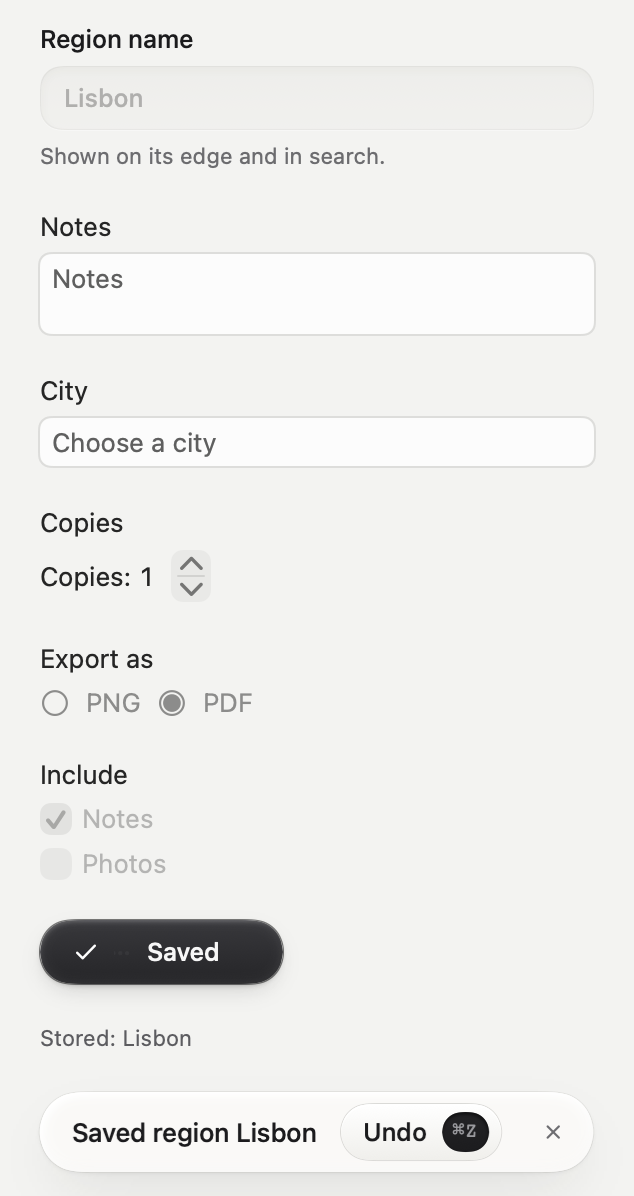
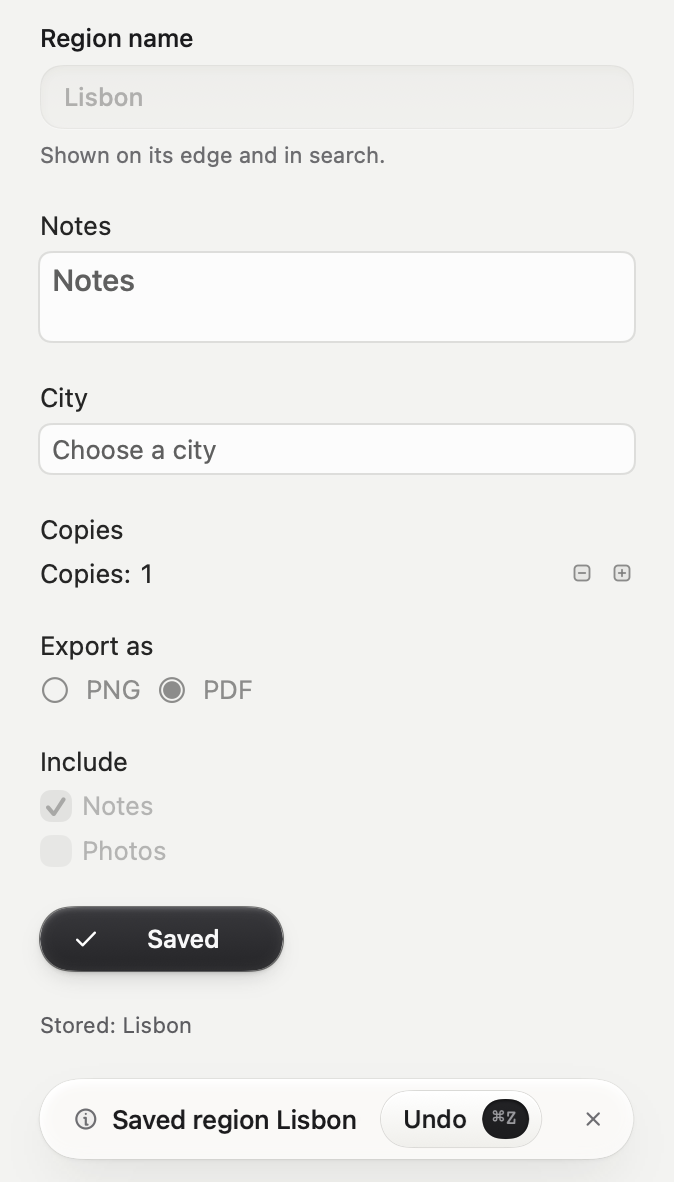
fix(form-field): keep the authored save glyph through region results

diff --git a/apps/docs/src/pages/components/FormField.tsx b/apps/docs/src/pages/components/FormField.tsx
@@ -1,7 +1,7 @@
 import * as React from 'react';
 import { useDialKit } from 'dialkit';
 import { Button, CheckboxGroup, Combobox, Field, Fieldset, Form, FormField, NumberField, Radio, RadioGroup, Textarea, ToastProvider, useToast, useWaiting } from '@unlocalhosted/metalui';
-import { Icon, MorphIcon } from '@unlocalhosted/metalui/icons';
+import { SaveGlyph } from '../../ui/async/SaveGlyph';
 import { useEditRequest } from '../../../../../packages/metalui/src/components/rename-editor/edit-request';
 import { SPRINGS } from '../../../../../packages/metalui/src/motion/springs.generated';
 import { WAITING_TIMING } from '../../../../../packages/metalui/src/motion/waiting.generated';
@@ -107,7 +107,7 @@ function RegionFormBody() {
       </Fieldset>
       <div className="flex items-center gap-12">
         <Button cap="primary" type="submit" state={request.state} waitingLabel="Saving…" doneLabel="Saved" errorLabel="Try again"
-          icon={<span className="relative inline-flex"><MorphIcon name={phase === 'done' ? 'check' : phase === 'error' ? 'sync-error' : 'region'} className={phase === 'idle' ? 'invisible' : undefined} /><Icon name="region" className={phase === 'idle' ? 'absolute inset-0' : 'hidden'} /></span>}>Save region</Button>
+          icon={<SaveGlyph state={phase} />}>Save region</Button>
         {sent && <span className="type-meta text-ink2">Saved.</span>}
       </div>
       {request.failure && <p className="m-0 type-meta text-form-field-error-ink" role="alert">{request.failure}</p>}
@@ -125,14 +125,16 @@ export default function FormFieldPage() {
       lede="A control with its words: a label, a hint, and an error that says why a value is not accepted. The error comes out from under the control, so the form moves instead of jumping. Fieldsets group fields under a legend."
       play={{ lede: 'Type two letters in the name and move on, or save with the name empty. Saving validates the whole form, locks only that request, then offers Undo.', caption: 'label · description · error · fieldset', node: <RegionForm /> }}
       more={[{ id: 'save', title: 'Commit a small edit', lede: 'Save region captures all validated fields for one storage request. A failure keeps the draft for retry; a success settles region into check and Save region into Saved, then unlocks the form. Undo restores the snapshot captured before that request. The Save region request panel controls latency and first-request failure.', node: <p className="m-0 type-content text-ink2">The native example below composes the same existing controls. Native Combobox, NumberField and CheckboxGroup remain at their documented alpha fidelity; request lock, validation, result and Undo are executable.</p> }, { id: 'error', title: 'Tune the error', lede: 'The Form error panel swaps the springs the error opens and closes on, and stretches time. Flip it invalid and valid.', node: <ErrorTuner /> }]}
-      usage={`<Form onFormSubmit={save}>
+      usage={`import { Icon } from '@unlocalhosted/metalui/icons';
+
+<Form onFormSubmit={save}>
   <FormField name="name">
     <FormField.Label>Region name</FormField.Label>
     <Field size="regular"><Field.Input required /></Field>
     <FormField.Description>Shown on its edge and in search.</FormField.Description>
     <FormField.Error match="valueMissing">Give the region a name.</FormField.Error>
   </FormField>
-  <Button cap="primary" type="submit">Save</Button>
+  <Button cap="primary" type="submit" icon={<Icon name="save" />}>Save</Button>
 </Form>`}
       sources={[
         { id: 'react', label: 'React', code: reactSource },

diff --git a/swift/Examples/MetalSaveRegionExample.swift b/swift/Examples/MetalSaveRegionExample.swift
@@ -54,7 +54,7 @@ public struct MetalSaveRegionExample: View {
                     MetalCheckboxGroup(options: [("notes", "Notes"), ("photos", "Photos")], selection: $draft.include)
                 }.disabled(pending)
                 MetalButton("Save region", cap: .primary, state: state, waitingLabel: "Saving…", doneLabel: "Saved", errorLabel: "Try again", action: submit) {
-                    MetalMorphIcon(phase == .done ? .check : phase == .error ? .syncError : .region)
+                    MetalMorphIcon(phase == .done ? .check : phase == .error ? .syncError : .save)
                 }.keyboardShortcut(.defaultAction)
                 if let failure { Text(failure).metalType(MetalType.meta).foregroundStyle(colorway.tokens.invalid.color) }
                 Text(saved.map { "Stored: \($0.name)" } ?? "No saved region.").metalType(MetalType.meta).foregroundStyle(colorway.tokens.ink2.color)

diff --git a/e2e/save-region.spec.ts b/e2e/save-region.spec.ts
@@ -5,6 +5,7 @@ for (const colorway of COLORWAYS) {
   test(`Save region commits validated fields once, locks only the form, settles a result and captures Undo in ${colorway}`, async ({ page }) => {
     await open(page, '/components/form-field', colorway);
     const form = page.getByTestId('save-region');
+    await expect(form.getByRole('button', { name: 'Save region', exact: true }).locator('svg.mu-ic-save').filter({ visible: true })).toHaveCount(1);
     const name = form.getByRole('textbox', { name: 'Region name' });
     await name.fill('Lisbon'); await form.getByRole('textbox', { name: 'Notes' }).fill('Bring the tram map.');
     await form.getByRole('button', { name: 'Save region', exact: true }).click();

diff --git a/packages/metalui/public/AI.md b/packages/metalui/public/AI.md
@@ -1741,7 +1741,7 @@ Reduce Motion: the error's row snaps; the fade stays.
 
 ## Save region host
 
-The docs form saves the validated values from Base UI Form as one request. The host captures its previous document, locks its controls while pending, drives Button state waiting/done/error, and reserves the result beat before unlocking. Its region glyph becomes check on success or sync-error on failure; the drum says Saved / Try again. Failed storage retains the draft and remains retryable; it does not mark otherwise-valid field values invalid. Undo restores the captured document snapshot, never a later read of current storage. Existing form validation still owns focus placement.
+The docs form saves the validated values from Base UI Form as one request. The host captures its previous document, locks its controls while pending, drives Button state waiting/done/error, and reserves the result beat before unlocking. Its authored save glyph becomes check on success or sync-error on failure; the drum says Saved / Try again. Failed storage retains the draft and remains retryable; it does not mark otherwise-valid field values invalid. Undo restores the captured document snapshot, never a later read of current storage. Existing form validation still owns focus placement.
 
 The executable native composition is swift/Examples/MetalSaveRegionExample.swift in the non-product MetalUIExamples target; it uses the same storage callback, request lock, presentation timing and captured-original Undo. Component fidelity limits remain those of the individual alpha controls.
 

diff --git a/packages/metalui/public/r/form-field.md b/packages/metalui/public/r/form-field.md
@@ -49,6 +49,6 @@ Reduce Motion: the error's row snaps; the fade stays.
 
 ## Save region host
 
-The docs form saves the validated values from Base UI Form as one request. The host captures its previous document, locks its controls while pending, drives Button state waiting/done/error, and reserves the result beat before unlocking. Its region glyph becomes check on success or sync-error on failure; the drum says Saved / Try again. Failed storage retains the draft and remains retryable; it does not mark otherwise-valid field values invalid. Undo restores the captured document snapshot, never a later read of current storage. Existing form validation still owns focus placement.
+The docs form saves the validated values from Base UI Form as one request. The host captures its previous document, locks its controls while pending, drives Button state waiting/done/error, and reserves the result beat before unlocking. Its authored save glyph becomes check on success or sync-error on failure; the drum says Saved / Try again. Failed storage retains the draft and remains retryable; it does not mark otherwise-valid field values invalid. Undo restores the captured document snapshot, never a later read of current storage. Existing form validation still owns focus placement.
 
 The executable native composition is swift/Examples/MetalSaveRegionExample.swift in the non-product MetalUIExamples target; it uses the same storage callback, request lock, presentation timing and captured-original Undo. Component fidelity limits remain those of the individual alpha controls.

diff --git a/packages/metalui/src/components/form-field/form-field.agent.md b/packages/metalui/src/components/form-field/form-field.agent.md
@@ -49,6 +49,6 @@ Reduce Motion: the error's row snaps; the fade stays.
 
 ## Save region host
 
-The docs form saves the validated values from Base UI Form as one request. The host captures its previous document, locks its controls while pending, drives Button state waiting/done/error, and reserves the result beat before unlocking. Its region glyph becomes check on success or sync-error on failure; the drum says Saved / Try again. Failed storage retains the draft and remains retryable; it does not mark otherwise-valid field values invalid. Undo restores the captured document snapshot, never a later read of current storage. Existing form validation still owns focus placement.
+The docs form saves the validated values from Base UI Form as one request. The host captures its previous document, locks its controls while pending, drives Button state waiting/done/error, and reserves the result beat before unlocking. Its authored save glyph becomes check on success or sync-error on failure; the drum says Saved / Try again. Failed storage retains the draft and remains retryable; it does not mark otherwise-valid field values invalid. Undo restores the captured document snapshot, never a later read of current storage. Existing form validation still owns focus placement.
 
 The executable native composition is swift/Examples/MetalSaveRegionExample.swift in the non-product MetalUIExamples target; it uses the same storage callback, request lock, presentation timing and captured-original Undo. Component fidelity limits remain those of the individual alpha controls.
